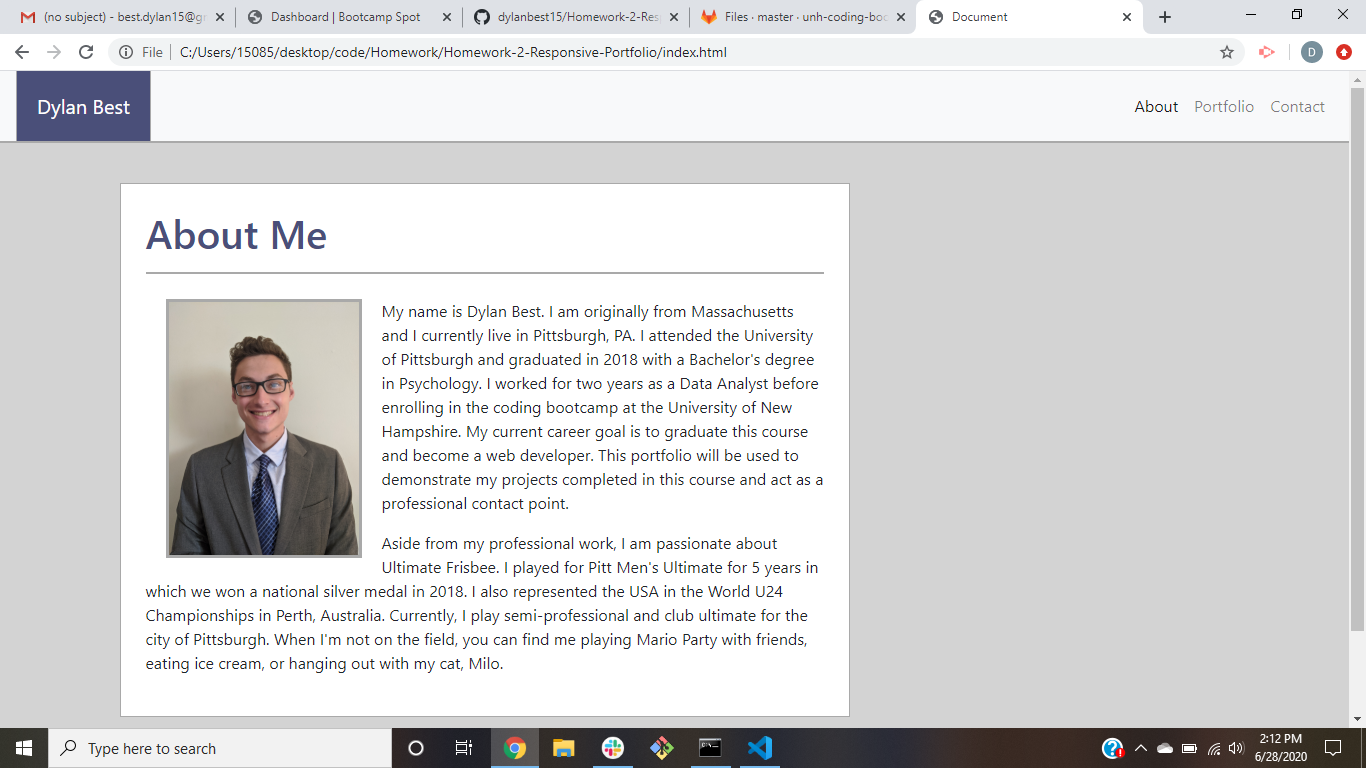
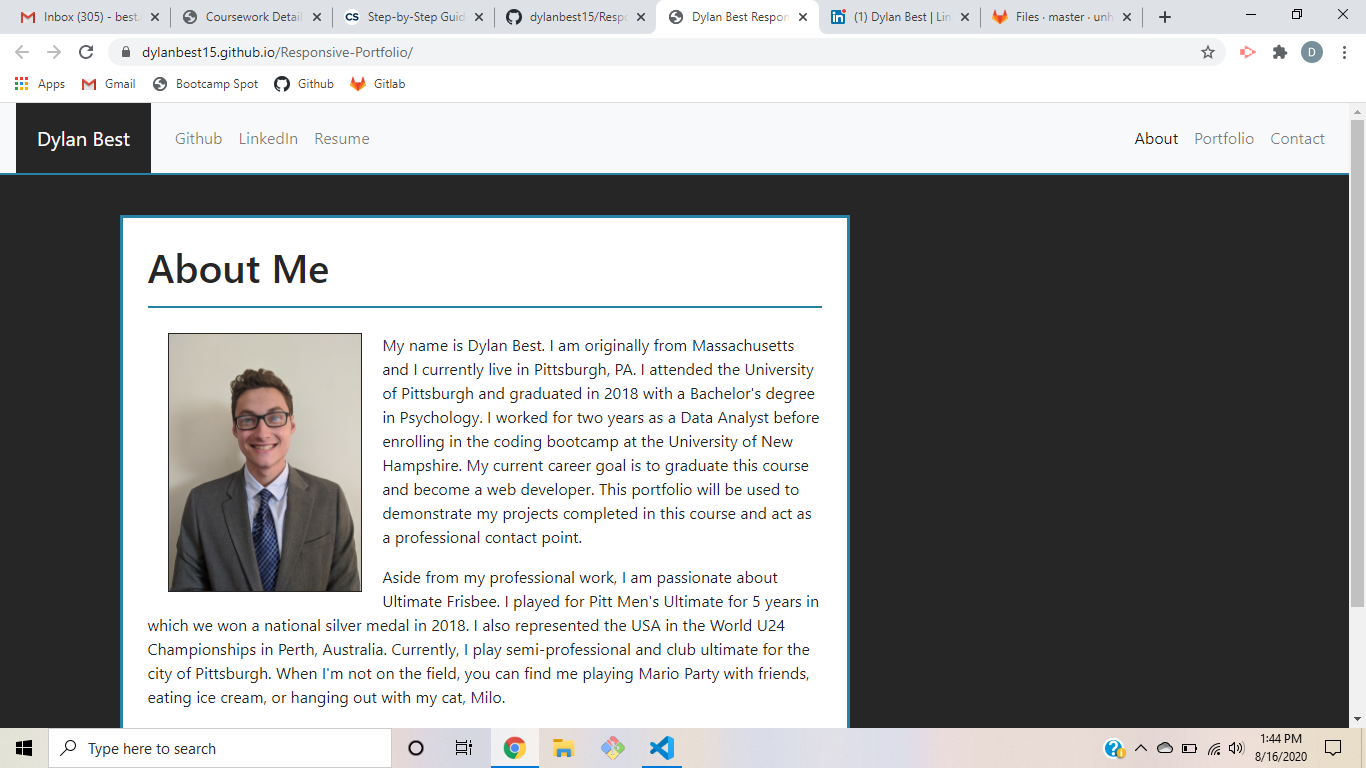
fixed screenshot and linkedin

diff --git a/contact.html b/contact.html
@@ -27,7 +27,7 @@
         <div class="collapse navbar-collapse" id="navbarNavAltMarkup">
             <div class="navbar-nav">
                 <a class="nav-item nav-link" href="https://github.com/dylanbest15">Github</a>
-                <a class="nav-item nav-link" href="https://www.linkedin.com/in/dylan-best-58554b175/">LinkedIn</a>
+                <a class="nav-item nav-link" href="https://www.linkedin.com/in/dylanbest15/">LinkedIn</a>
                 <a class="nav-item nav-link" href="#">Resume</a>
             </div>
         </div>

diff --git a/index.html b/index.html
@@ -27,7 +27,7 @@
         <div class="collapse navbar-collapse" id="navbarNavAltMarkup">
             <div class="navbar-nav">
                 <a class="nav-item nav-link" href="https://github.com/dylanbest15">Github</a>
-                <a class="nav-item nav-link" href="https://www.linkedin.com/in/dylan-best-58554b175/">LinkedIn</a>
+                <a class="nav-item nav-link" href="https://www.linkedin.com/in/dylanbest15/">LinkedIn</a>
                 <a class="nav-item nav-link" href="#">Resume</a>
             </div>
         </div>

diff --git a/portfolio.html b/portfolio.html
@@ -27,7 +27,7 @@
         <div class="collapse navbar-collapse" id="navbarNavAltMarkup">
             <div class="navbar-nav">
                 <a class="nav-item nav-link" href="https://github.com/dylanbest15">Github</a>
-                <a class="nav-item nav-link" href="https://www.linkedin.com/in/dylan-best-58554b175/">LinkedIn</a>
+                <a class="nav-item nav-link" href="https://www.linkedin.com/in/dylanbest15/">LinkedIn</a>
                 <a class="nav-item nav-link" href="#">Resume</a>
             </div>
         </div>
